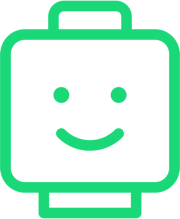
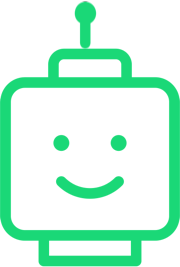
added contact card modal

diff --git a/src/components/Modals/Modal.js b/src/components/Modals/Modal.js
@@ -5,6 +5,7 @@ import { pushState } from 'redux-router';
 import { Modal } from 'react-bootstrap';
 
 import * as overlayActions from '../../redux/modules/overlays';
+import PhoneModal from './PhoneModal';
 
 @connect(
   state => ({
@@ -22,10 +23,6 @@ export default class DefaultModal extends Component {
 	static propTypes = {
 	}
 
-	state = {
-		phoneNumber: ''
-	}
-
 	close() {
 		const { closeModal } = this.props;
 		closeModal()
@@ -33,9 +30,7 @@ export default class DefaultModal extends Component {
 
 	render() {
 		const style = require('./Modals.scss');
-		const chatBubbles = require('../../../static/ChatBubbles.png');
 		const { open, type, isMobile } = this.props;
-		const { phoneNumber } = this.state;
 		return (
 			<Modal
 			bsClass={(isMobile ? 'mobile' : 'desktop') + ' ' + 'modal'}
@@ -43,91 +38,27 @@ export default class DefaultModal extends Component {
 			show={open}
 			onHide={::this.close}>
 				<Modal.Body>
-					<i 
-					onClick={::this.close}
-					style={{
-						fontSize: '1em',
-						position: 'absolute',
-						top: '20px',
-						right: '20px',
-						color: '#A8B6C1',
-						cursor: 'pointer'
-					}} 
-					className="fa fa-times">
-					</i>
-					<div
-					style={{
-						textAlign: 'center'
-					}}
-					className="display_flex flex_vertical flex_center">
-						<img 
-						style={{
-							marginTop: isMobile ? '7.5px' : '1.5em',
-							height: isMobile ? '95px' : '115px'
-						}} 
-						src={chatBubbles}/>
-						<h1
-						style={{
-							color: '#2C3239',
-							fontWeight: '600',
-							fontSize: isMobile ? '17px' : '24px',
-							margin: '10px 0 5px 0!important'
-						}}>
-							Enter phone number to take quiz
-						</h1>
-						<p
-						style={{
-							color: '#A8B6C1',
-							fontWeight: '400',
-							fontSize: isMobile ? '15.5px' : '19px',
-							margin: isMobile ? '5px 0 10px 0!important' : '10px 0 15px 0',
-							width: isMobile ? '100%' : '75%'
-						}}>
-							The quiz is messaging based. Don't worry, we're paying for everything.
-						</p>
-						<div 
-						style={{
-							margin: '10px 0px',
-							padding: '7.5px 5px',
-							borderTop: '1px solid #EEEEEE',
-							borderBottom: '1px solid #EEEEEE',
-							width: isMobile ? '100%' : '78%',
-							fontSize: isMobile ? '16px' : '18px'
-						}} 
-						className="input_wrapper flex_horizontal">
-							<span style={{padding: '7.5px 5px'}}>
-								+1
-							</span>
-							<input 
-							style={{
-								background: '#fff',
-								padding: '0px 0 0 10px',
-								width: '100%',
-								fontSize: isMobile ? '16px' : '18px',
-								lineHeight: isMobile ? '17px' : '19px'
-							}}
-							onChange={(e) => {
-								var number = e.target.value;
-								number = number.replace(/(\d{3})(\d{3})(\d+)/, '$1-$2-$3');
-								this.setState({
-									phoneNumber: number
-								});
-							}}
-							value={phoneNumber}
-							ref="phone_number"
-							placeholder="Phone Number #"
-							type="text"
-							pattern="[0-9]*"
-							autoFocus={true}/>
+					{
+						type == 'phone'
+						&&
+						<PhoneModal
+							isMobile={isMobile}
+							close={::this.close}
+						/>
+					}
+					{
+						type == 'contact'
+						&&
+						<div>
+							<h1 style={{fontWeight: '600', fontSize: '32px', color: '#2C3239', margin: '0.5em 0 1em 0!important'}}>
+							Contact us
+							</h1>
+							<p style={{fontWeight: '400', fontSize: '20px', color: '#A8B6C1'}}>Email</p>
+							<h2 style={{fontWeight: '500', fontSize: '25px', color: '#2C3239', margin: '0 0 0.5em 0!important' }}><a className="link" href="mailto:team@quizly.com">team@quizly.com</a></h2>
+							<p style={{fontWeight: '400', fontSize: '20px', color: '#A8B6C1', marginTop: '1.5em'}}>Twitter</p>
+							<h2 style={{fontWeight: '500', fontSize: '25px', color: '#2C3239', margin: '0 0 0.5em 0!important' }}>@quizlyapp</h2>
 						</div>
-						<button 
-						style={{
-							margin: '5px 0px'
-						}} 
-						className="button primary_green">
-							Start
-						</button>
-					</div>
+					}
 				</Modal.Body>
 			</Modal>
 		);

diff --git a/src/components/Modals/PhoneModal.js b/src/components/Modals/PhoneModal.js
@@ -4,10 +4,102 @@ export default class PhoneModal extends Component {
 	static propTypes = {
 	}
 
+	state = {
+		phoneNumber: ''
+	}
+
 	render() {
 		const style = require('./Modals.scss');
+		const chatBubbles = require('../../../static/ChatBubbles.png');
+		const { isMobile } = this.props;
+		const { phoneNumber } = this.state;
 		return(
 			<div className="">
+				<i 
+				onClick={() => this.props.close()}
+				style={{
+					fontSize: '1em',
+					position: 'absolute',
+					top: '20px',
+					right: '20px',
+					color: '#A8B6C1',
+					cursor: 'pointer'
+				}} 
+				className="fa fa-times">
+				</i>
+				<div
+				style={{
+					textAlign: 'center'
+				}}
+				className="display_flex flex_vertical flex_center">
+					<img 
+					style={{
+						marginTop: isMobile ? '7.5px' : '1.5em',
+						height: isMobile ? '95px' : '105px'
+					}} 
+					src={chatBubbles}/>
+					<h1
+					style={{
+						color: '#2C3239',
+						fontWeight: '600',
+						fontSize: isMobile ? '17px' : '24px',
+						margin: '10px 0 5px 0!important'
+					}}>
+						Enter phone number to take quiz
+					</h1>
+					<p
+					style={{
+						color: '#A8B6C1',
+						fontWeight: '400',
+						fontSize: isMobile ? '15.5px' : '19px',
+						margin: isMobile ? '5px 0 10px 0!important' : '10px 0 15px 0',
+						width: isMobile ? '100%' : '75%'
+					}}>
+						The quiz is messaging based. Don't worry, we're paying for everything.
+					</p>
+					<div 
+					style={{
+						margin: '10px 0px',
+						padding: '7.5px 5px',
+						borderTop: '1px solid #EEEEEE',
+						borderBottom: '1px solid #EEEEEE',
+						width: isMobile ? '100%' : '78%',
+						fontSize: isMobile ? '16px' : '18px'
+					}} 
+					className="input_wrapper flex_horizontal">
+						<span style={{padding: '7.5px 5px'}}>
+							+1
+						</span>
+						<input 
+						style={{
+							background: '#fff',
+							padding: '0px 0 0 10px',
+							width: '100%',
+							fontSize: isMobile ? '16px' : '18px',
+							lineHeight: isMobile ? '17px' : '19px'
+						}}
+						onChange={(e) => {
+							var number = e.target.value;
+							number = number.replace(/(\d{3})(\d{3})(\d+)/, '$1-$2-$3');
+							this.setState({
+								phoneNumber: number
+							});
+						}}
+						value={phoneNumber}
+						ref="phone_number"
+						placeholder="Phone Number #"
+						type="text"
+						pattern="[0-9]*"
+						autoFocus={true}/>
+					</div>
+					<button 
+					style={{
+						margin: '5px 0px'
+					}} 
+					className="button primary_green">
+						Start
+					</button>
+				</div>
 			</div>
 		);
 	}

diff --git a/src/components/Footer/Footer.js b/src/components/Footer/Footer.js
@@ -1,5 +1,20 @@
 import React, { Component, PropTypes } from 'react';
+import { connect } from 'react-redux';
+import { bindActionCreators } from 'redux';
+import { pushState } from 'redux-router';
 
+import * as overlayActions from '../../redux/modules/overlays';
+
+@connect(
+  state => ({
+  }),
+  dispatch => ({
+    ...bindActionCreators({
+      ...overlayActions,
+      pushState
+    }, dispatch)
+  })
+)
 export default class Footer extends Component {
 	static propTypes = {
 	}
@@ -25,7 +40,10 @@ export default class Footer extends Component {
 					<div 
 						style={{marginLeft: 'auto'}} 
 						className="flex_container_right grey">
-						<a style={{color: '#A8B6C1'}} className="link">Contact us</a>
+						<a 
+						onClick={() => this.props.openModal('contact')}
+						style={{color: '#A8B6C1'}} 
+						className="link">Contact us</a>
 					</div> 
 				</div>
 			</div>

diff --git a/src/redux/modules/overlays.js b/src/redux/modules/overlays.js
@@ -14,12 +14,14 @@ export default function reducer (state = initialState, action) {
 		case OPEN_MODAL:
 			return {
 				...state,
-				modalOpen: true
+				modalOpen: true,
+				modalType: action.modalType
 			}
 		case CLOSE_MODAL:
 			return {
 				...state,
-				modalOpen: false
+				modalOpen: false,
+				modalType: ''
 			}
 		default:		
 			return {
@@ -29,9 +31,10 @@ export default function reducer (state = initialState, action) {
 	}
 }
 
-export function openModal() {
+export function openModal(modalType) {
 	return {
-		type: OPEN_MODAL
+		type: OPEN_MODAL,
+		modalType
 	}
 }
 

diff --git a/src/components/WorksItem/WorksItem.js b/src/components/WorksItem/WorksItem.js
@@ -9,7 +9,7 @@ export default class WorksItem extends Component {
 		const style = require('./WorksItem.scss');
 		return (
 			<div style={{padding: '0 0.5em'}} order={index} className={style.hiw_item}>
-				<div className={style.hiw_item_icon}>
+				<div className={style.hiw_item_icon + ' ' + (index === 1 ? style.bot : '')}>
 					<img src={item.image}/>
 				</div>
 				<h3 className={style.hiw_item_title}>

diff --git a/src/components/QuizHeader/QuizHeader.js b/src/components/QuizHeader/QuizHeader.js
@@ -48,7 +48,7 @@ export default class QuizHeader extends Component {
 					</button>
 				}
 				<button 
-					onClick={() => {this.props.openModal()}}
+					onClick={() => {this.props.openModal('phone')}}
 					style={{
 						zIndex: '0'
 					}} 

diff --git a/src/components/WorksItem/WorksItem.scss b/src/components/WorksItem/WorksItem.scss
@@ -7,6 +7,11 @@
 	}
 	.hiw_item_icon {
 		margin: 0 auto 20px;
+		&.bot {
+			img {
+				height: 80px;
+			}
+		}
 		img {
 			height: 70px;
 		}
